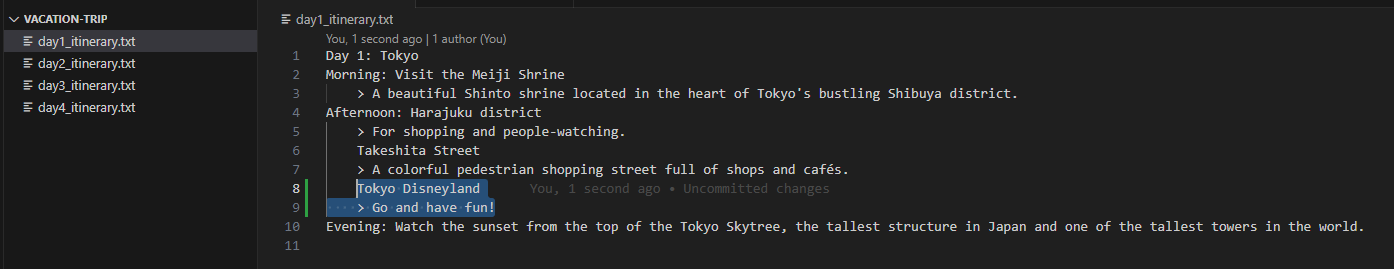
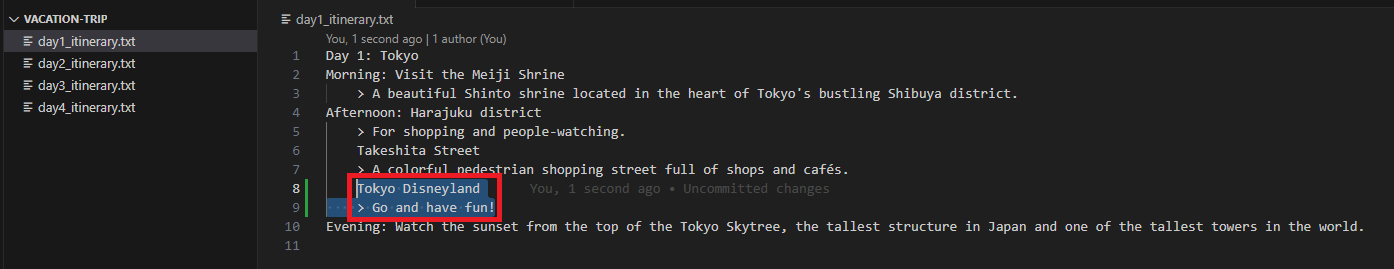
Added global & local config and 4_2 red box

Changed region(s): [[0.2468, 0.6245, 0.3702, 0.8327]]

diff --git a/Learning Git with Real-Life Applications/2. Getting Started/1._Git_Configure_Global_Settings.md b/Learning Git with Real-Life Applications/2. Getting Started/1._Git_Configure_Global_Settings.md
@@ -28,29 +28,54 @@ Overall, configuring global Git settings allows you to establish consistent beha
 
 ## Steps to Configuring your Git Settings:
 
+`*If you are using the Git Bash terminal in VS Code, you can skip the step below as the terminal should be navigated to the correct repository*`
+
 Firstly, navigate to the cloned repository's directory using the cd command:
 ```
     cd <repository_directory>
 ```
 
-`*If you are using the Git Bash terminal in VS Code, you can skip the step above as the terminal should be navigated to the correct repository*`
+`** "Show Hidden Items" checkbox should be CHECKED to see the .git folder **`
+![Show hidden files](../images/show_hidden_item.png)
 
 * For this example, we will be setting the Git Global Settings:
     
-    1. Name and Email: 
+    - Name and Email: 
         
         * You can set your name and email address using the following Git commands in the command prompt:
             ```
-            git config --global user.name "Your Name"
-            git config --global user.email "youremail@example.com"
+            git config --global user.name "Dev_A"
+            git config --global user.email "devA@example.com"
             ``` 
 
+            ![GitHub Global Config](../images/set_global_config.png)
+
+        `You can usually find the global config file in the "C:\Users\user\.git" folder.`
+
+        `If not, use the following command to get your config file.`
+        ```
+        git config --list --show-origin
+        ```
+
+        After setting the name and email address, the global config file should contain the correct information as shown below.
+
+        ![GitHub Global config file](../images/global_gitconfig_file.png)
+
 * If you wish to have a different local config for the local repository, you can change the settings of the following:
-    1. Name and Email:
+
+    - Name and Email:
         * You can set your name and email address using the following Git commands in the command prompt:
             ```
-            git config user.name "Your Name"
-            git config user.email "youremail@example.com"
+            git config user.name "Local_Dev_A"
+            git config user.email "LocalDevA@example.com"
             ``` 
+
+            ![GitHub Global Config](../images/set_local_config.png)
+
+        `You can find the local config file in the .git folder of your local repository directory.`
+
+        After setting the name and email address, the local config file should contain the correct information as shown below.
+
+        ![GitHub Local config file](../images/local_gitconfig_file.png)
 
 You may return [here](../../README.md#2-getting-started---initialise-a-repository-for-the-project-create-a-shared-folder-for-collaboration)

diff --git a/Learning Git with Real-Life Applications/4. Collaboration as A Team/2._Working_On_The_Same_Branch.md b/Learning Git with Real-Life Applications/4. Collaboration as A Team/2._Working_On_The_Same_Branch.md
@@ -56,7 +56,7 @@
     ```
 
     `Added texts are as shown in the red box below`
-    
+
     ![Change day1_itinerary.txt file](../images/4_2/4_2_day1_add_afternoon_devB.png)
 
 
@@ -101,6 +101,8 @@
     Tokyo Disneyland
     > Go and have fun!
     ```
+    
+    `Added texts are as shown in the red box below`
 
     ![Git edit day 1 itinerary](../images/4_2/4_2_day1_add_afternoon_devA.png)
 
